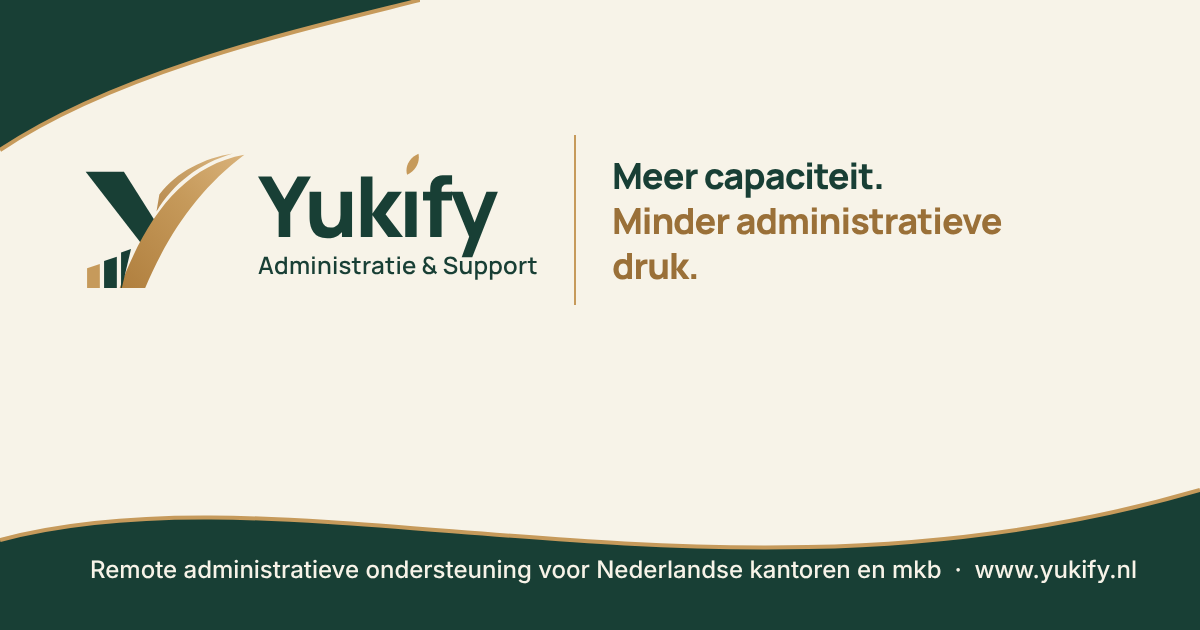
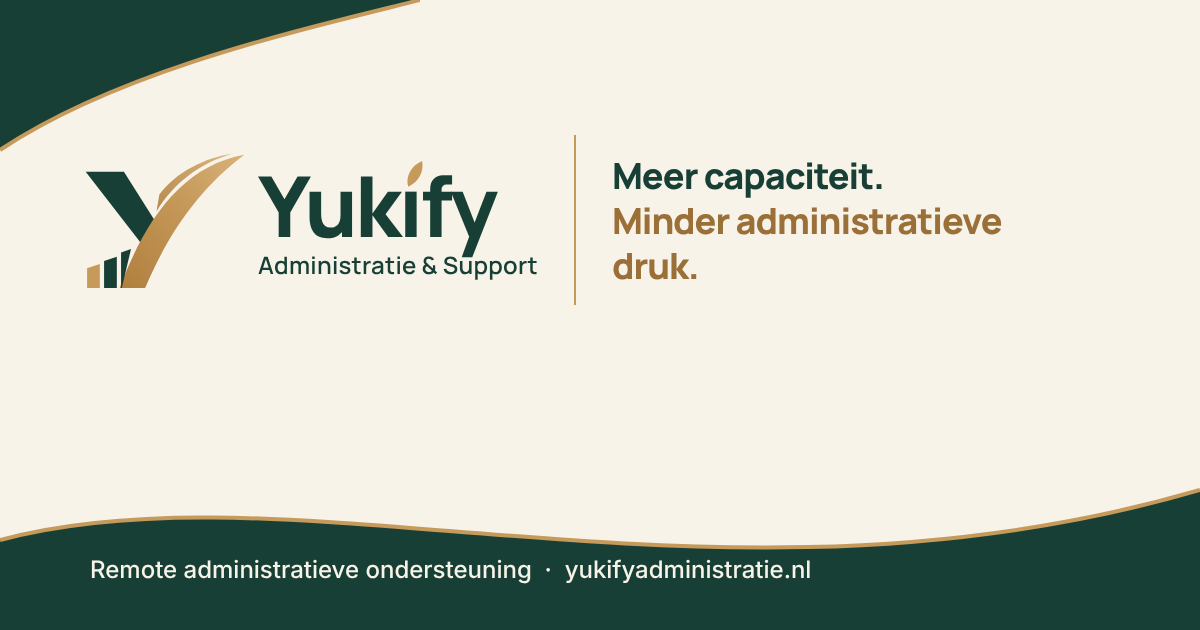
Migreer naar yukifyadministratie.nl en info@yukifyadministratie.nl
- Voorkeursdomein https://yukifyadministratie.nl (zonder www) en nieuw
  e-mailadres in site.config.mjs; canonical, sitemap, robots, OG en JSON-LD
  volgen automatisch.
- Formulier: standaardontvanger en mailtekst op het nieuwe domein; het
  e-mailadres in foutmeldingen komt nu uit de pagina i.p.v. hardcoded JS.
- OG-afbeelding opnieuw gegenereerd met het nieuwe domein.
- HSTS zonder includeSubDomains, om subdomeinen van de mailprovider niet
  te raken.
- Test: geen verwijzingen naar yukify.nl in de gebouwde site.
- README: stappen voor Vercel-domeinen, redirects en DNS in Squarespace.

Claude-Session: https://claude.ai/code/session_01JWyjTUrWEF6NFnTK4DLNZo

Changed region(s): [[0.4625, 0.8746, 0.9558, 0.9349], [0.3392, 0.2413, 0.37, 0.3016]]

diff --git a/src/assets/js/main.js b/src/assets/js/main.js
@@ -103,6 +103,8 @@
     var btn = form.querySelector('button[type=submit]');
     var btnLabel = btn.querySelector('.btn-label');
     var originalLabel = btnLabel.textContent;
+    var email = escapeHtml(form.getAttribute('data-email') || '');
+    var mailLink = '<a href="mailto:' + email + '">' + email + '</a>';
 
     form.elements.pagina.value = window.location.pathname;
 
@@ -166,13 +168,13 @@
             }
             showStatus(status, 'error',
               '<p><strong>Je bericht is niet verzonden.</strong> ' + escapeHtml(reason) + '</p>' +
-              '<p>Probeer het later opnieuw of mail direct naar <a href="mailto:info@yukify.nl">info@yukify.nl</a>.</p>');
+              '<p>Probeer het later opnieuw of mail direct naar ' + mailLink + '.</p>');
           }
         })
         .catch(function () {
           showStatus(status, 'error',
             '<p><strong>Je bericht is niet verzonden.</strong> Er kon geen verbinding worden gemaakt.</p>' +
-            '<p>Controleer je internetverbinding en probeer het opnieuw, of mail direct naar <a href="mailto:info@yukify.nl">info@yukify.nl</a>.</p>');
+            '<p>Controleer je internetverbinding en probeer het opnieuw, of mail direct naar ' + mailLink + '.</p>');
         })
         .then(function () {
           btn.disabled = false;

diff --git a/README.md b/README.md
@@ -1,4 +1,4 @@
-# Yukify — website (www.yukify.nl)
+# Yukify — website (yukifyadministratie.nl)
 
 Website voor **Yukify — Administratie & Support**. Statische pagina's gegenereerd met Node.js (zonder framework) en een kleine Node-server die de site serveert en het contactformulier via SMTP verstuurt.
 
@@ -33,7 +33,7 @@ Vereist Node.js 20 of hoger.
 
 Het formulier verstuurt e-mail via SMTP. Zonder configuratie geeft het formulier een eerlijke foutmelding ("niet verzonden") — er wordt nooit een succes gesimuleerd. Stel deze omgevingsvariabelen in bij de hosting (zie `.env.example`):
 
-`SMTP_HOST`, `SMTP_PORT`, `SMTP_SECURE`, `SMTP_USER`, `SMTP_PASS`, `MAIL_FROM`, `MAIL_TO` (standaard `info@yukify.nl`).
+`SMTP_HOST`, `SMTP_PORT`, `SMTP_SECURE`, `SMTP_USER`, `SMTP_PASS`, `MAIL_FROM`, `MAIL_TO` (standaard `info@yukifyadministratie.nl`).
 
 Controleer `/healthz`: `"mail": true` betekent dat SMTP is ingesteld. Stuur na livegang één echt testbericht.
 
@@ -42,6 +42,18 @@ Controleer `/healthz`: `"mail": true` betekent dat SMTP is ingesteld. Stuur na l
 **Vercel (aanbevolen):** koppel de GitHub-repository. `vercel.json` regelt de build (`npm run build` → `dist/`), de beveiligingsheaders en de functie `/api/contact`. Stel de SMTP-variabelen in onder *Project → Settings → Environment Variables* en deploy opnieuw. Controleer daarna `https://<domein>/healthz`.
 
 **Eigen Node-hosting (VPS e.d.):** `npm ci && npm run build && npm start`. Zet de server achter https en stel daarna `HSTS=true` in. Achter een reverse proxy: `TRUST_PROXY=true`.
+
+## Domein en e-mail (yukifyadministratie.nl)
+
+Het voorkeursdomein is `https://yukifyadministratie.nl` (zonder www), ingesteld in `site.config.mjs` (`url`, `domain`, `email`). Canonical URL's, sitemap, robots.txt, Open Graph en JSON-LD volgen automatisch.
+
+Handmatig in Vercel (*Project → Settings → Domains*):
+1. Voeg `yukifyadministratie.nl` toe en markeer het als productiedomein.
+2. Voeg `www.yukifyadministratie.nl` toe en kies **Redirect to `yukifyadministratie.nl`** (308). Stel de redirect alléén hier in; `vercel.json` bevat bewust geen host-redirect, zodat er geen redirect-loop kan ontstaan.
+3. Optioneel: laat het oude domein (`yukify.nl`, `www.yukify.nl`) gekoppeld en stel het in als redirect naar `yukifyadministratie.nl`, zodat oude links blijven werken.
+4. Neem de DNS-records over die Vercel bij elk domein toont (meestal een A-record voor `@` en een CNAME voor `www`) in Squarespace. Voeg alleen deze records toe of pas alleen bestaande A/CNAME-records voor `@`/`www` aan; laat MX-, SPF-, DKIM- en DMARC-records ongemoeid.
+
+Handmatig voor het contactformulier (*Settings → Environment Variables*): zet `MAIL_TO=info@yukifyadministratie.nl` en een `MAIL_FROM` op het nieuwe domein, plus de SMTP-gegevens van de mailprovider van dat adres. Controleer dat de SPF/DKIM-records van die provider op `yukifyadministratie.nl` staan. Deploy opnieuw en controleer `/healthz`.
 
 ## Vóór publicatie te bevestigen
 
